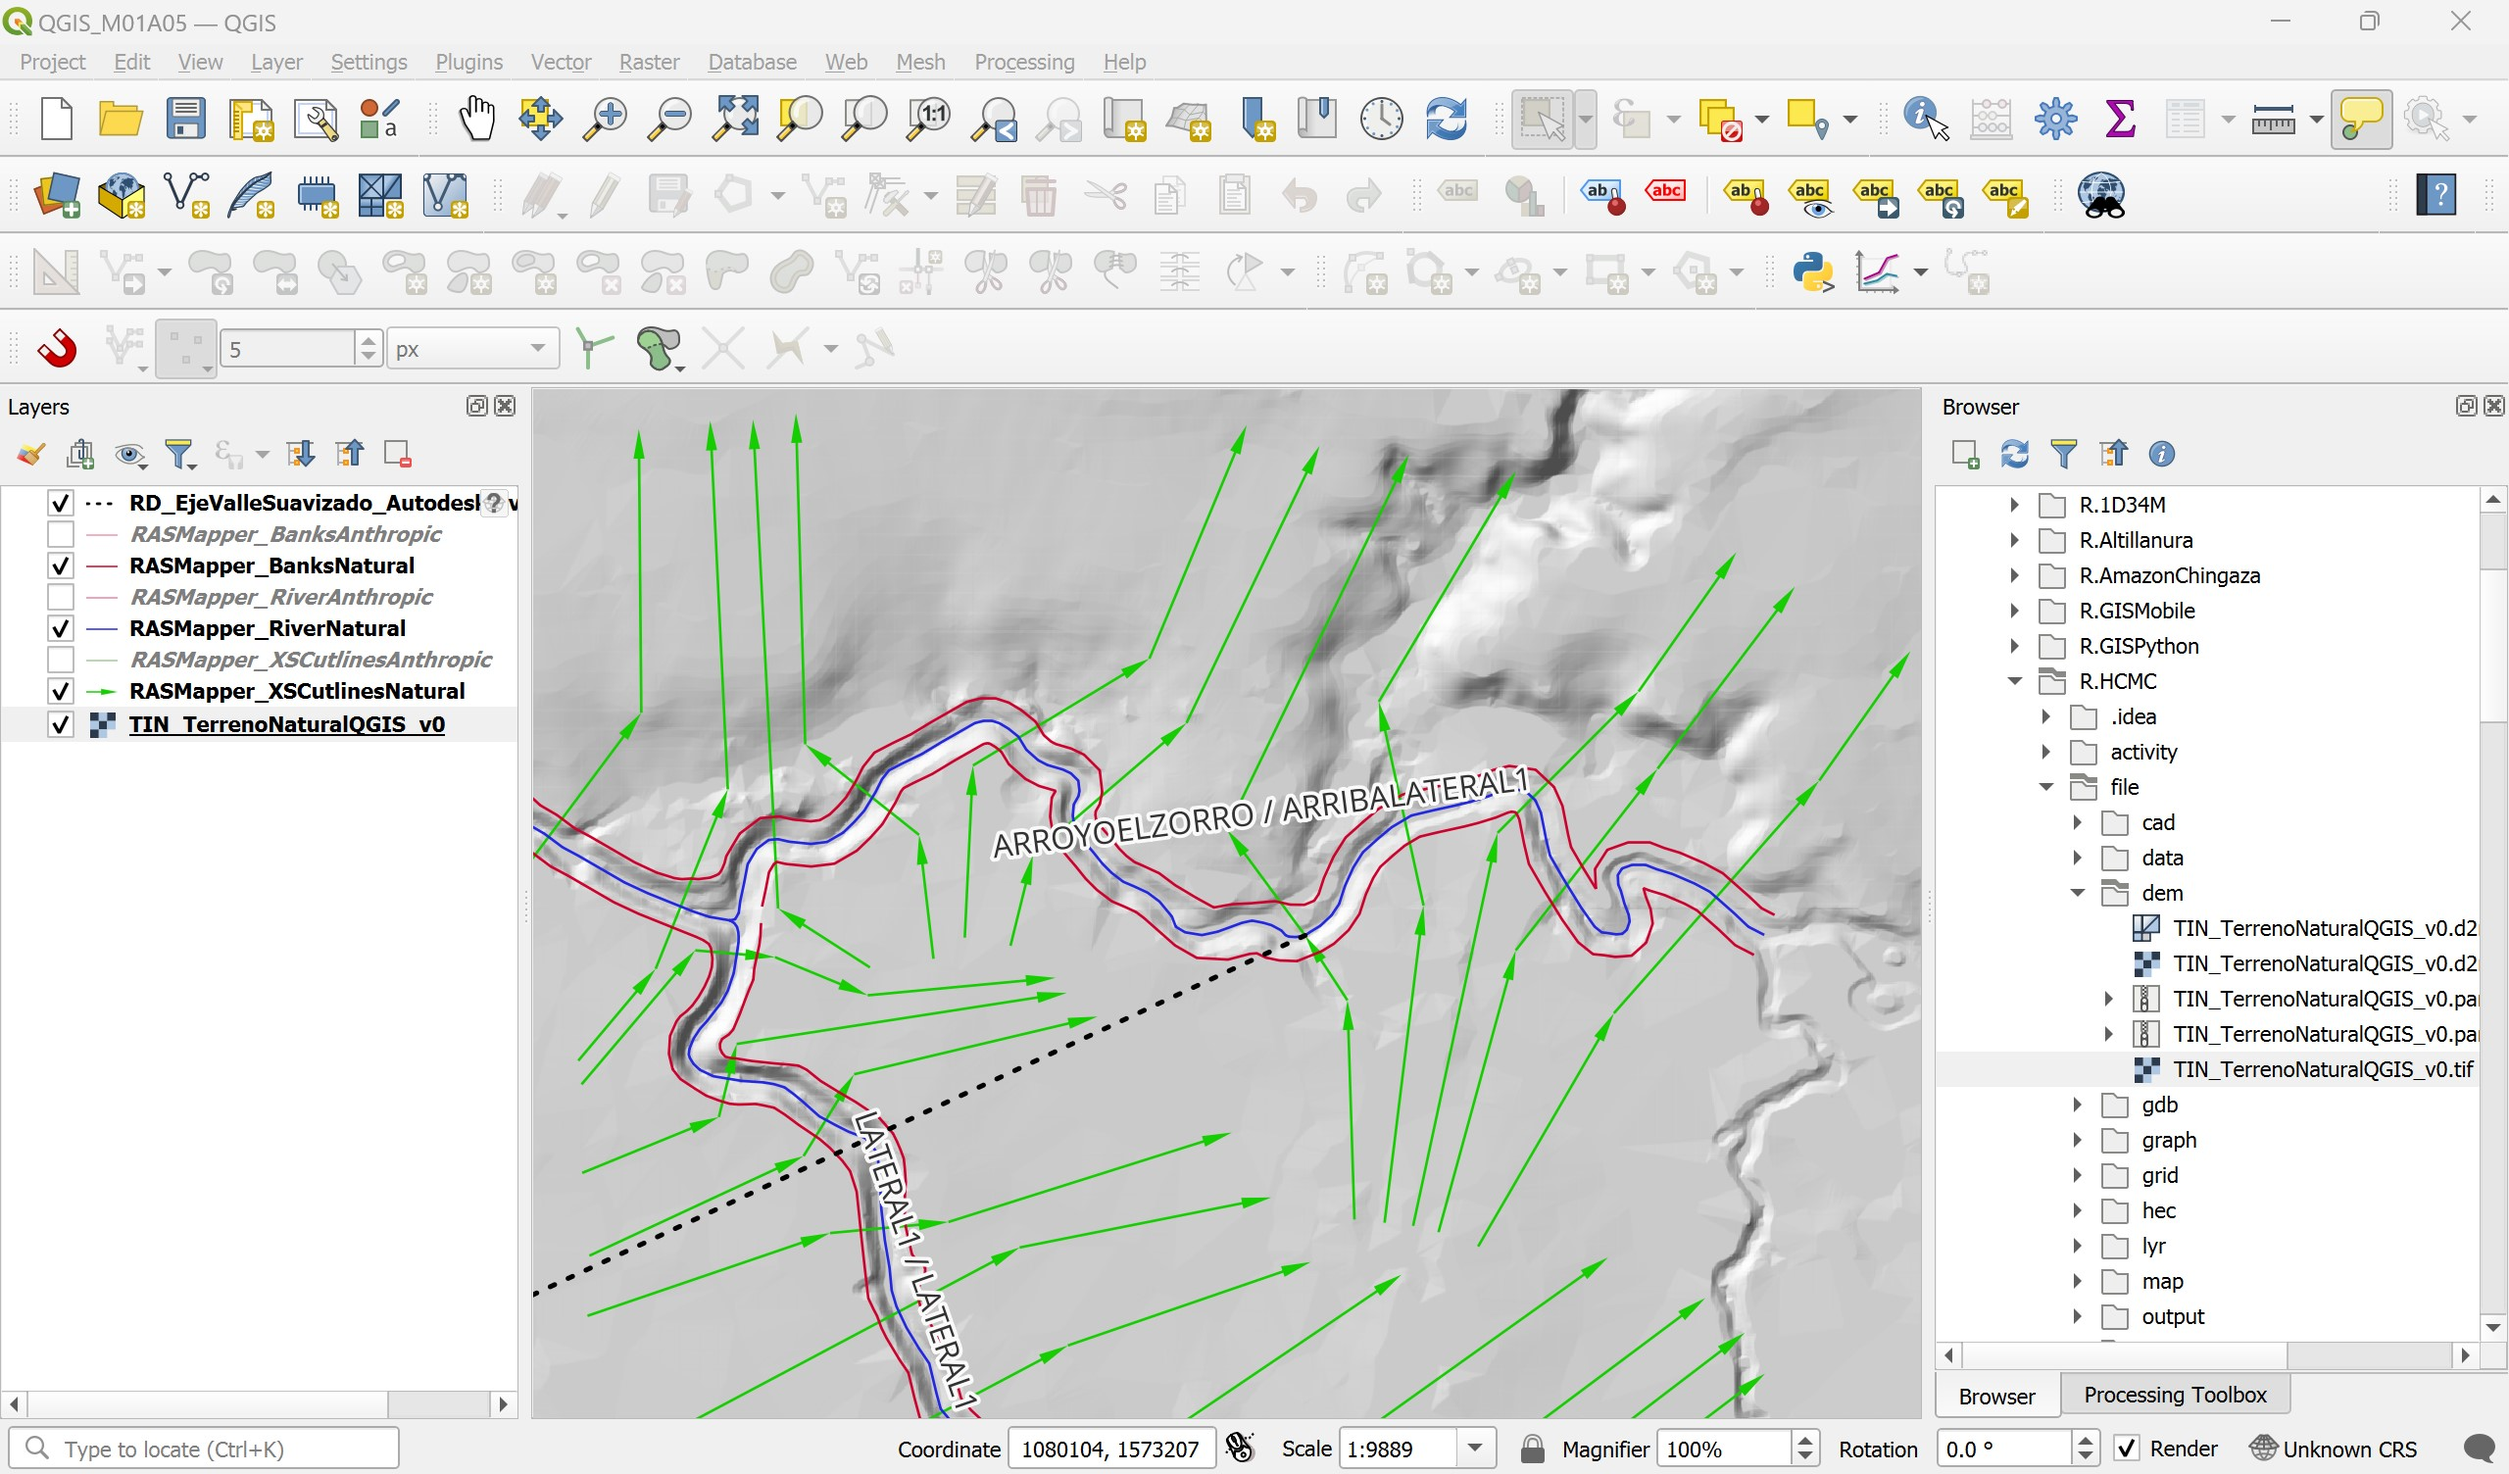
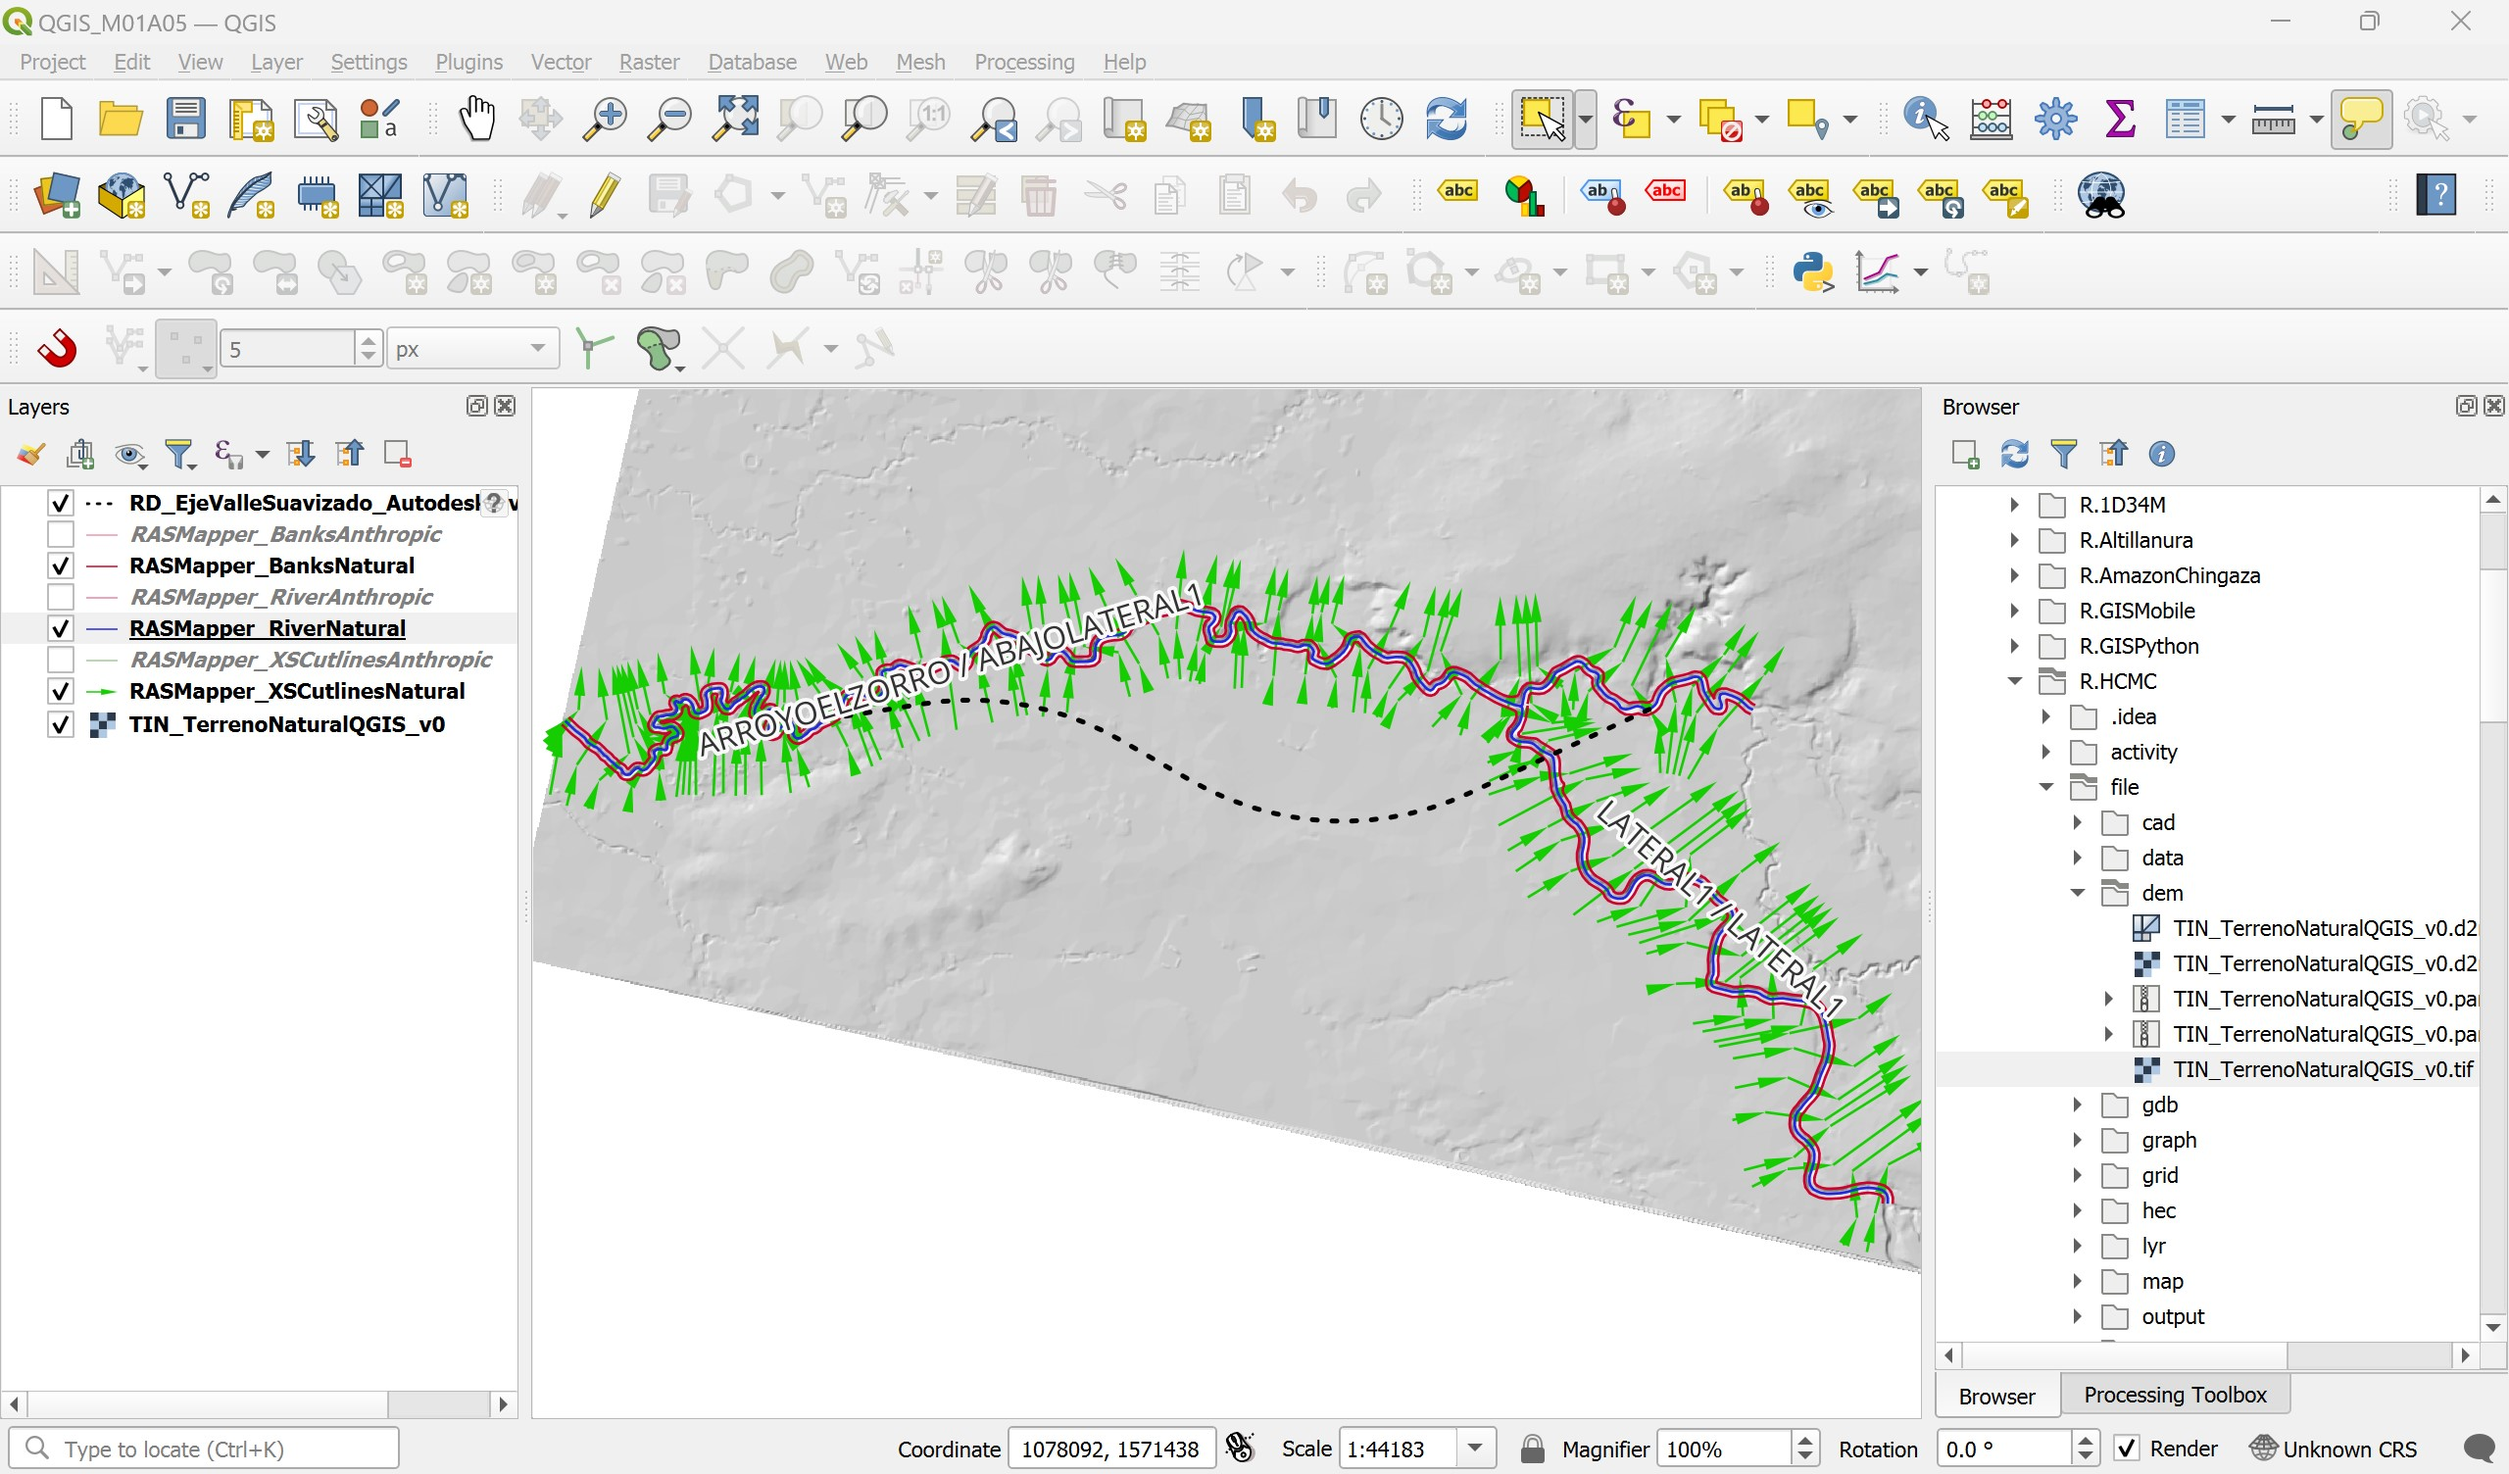
General update.

diff --git a/activity/M01A05/Readme.md b/activity/M01A05/Readme.md
@@ -40,10 +40,11 @@ Archivos, actividades previas, lecturas y herramientas requeridas para el desarr
 
 > :fire: Tenga en cuenta que para la correcta asociación de las abscisas del modelo hidráulico de muestreo, los drenajes así como las líneas de banca deberán ser digitalizadas en el sentido del flujo y las secciones transversales de izquierda a derecha en el sentido del flujo.
 
-Como observa en la ilustración, la red de muestreo de cauces naturales únicamente 
+Como observa en la ilustración, la red de muestreo de cauces naturales únicamente contiene elementos próximos a la zona del futuro cauce de realineamiento y hasta el límite del modelo digital de terreno generado previamente.
 
 <div align="center"><img src="graph/QGIS_NaturalSymbology.jpg" alt="R.SIGE" width="100%" border="0" /></div>
-<div align="center"><img src="graph/QGIS_NaturalSymbology1.jpg" alt="R.SIGE" width="70%" border="0" /></div>
+<div align="center"><img src="graph/QGIS_NaturalSymbology1.jpg" alt="R.SIGE" width="100%" border="0" /></div>
+<div align="center"><img src="graph/QGIS_NaturalSymbology2.jpg" alt="R.SIGE" width="70%" border="0" /></div>
 
 Para la construcción de las líneas de muestreo de cauces naturales de su proyecto, utilice las siguientes directrices:
 
